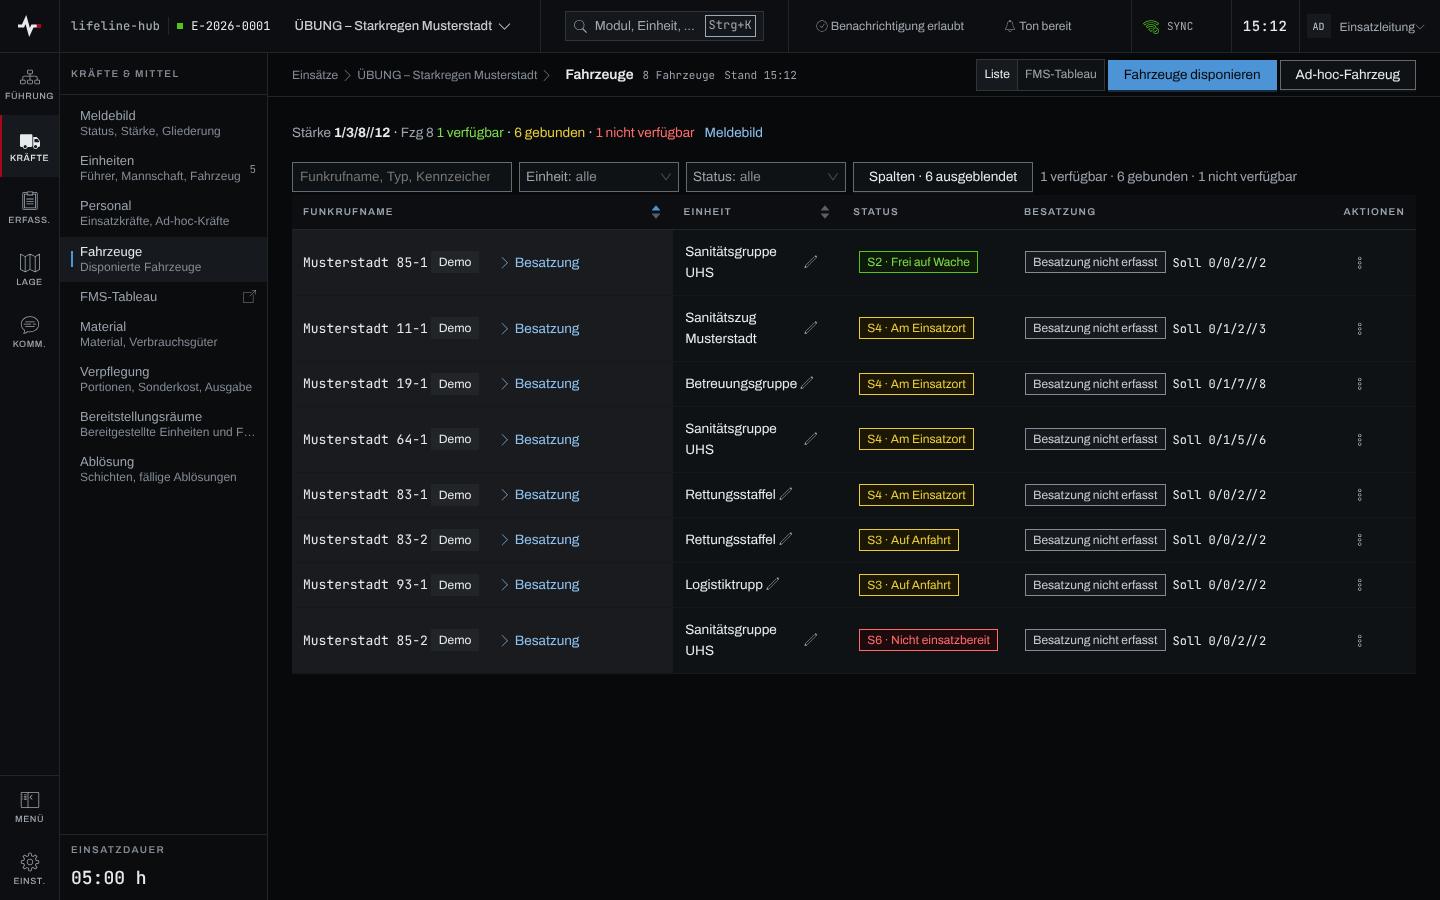
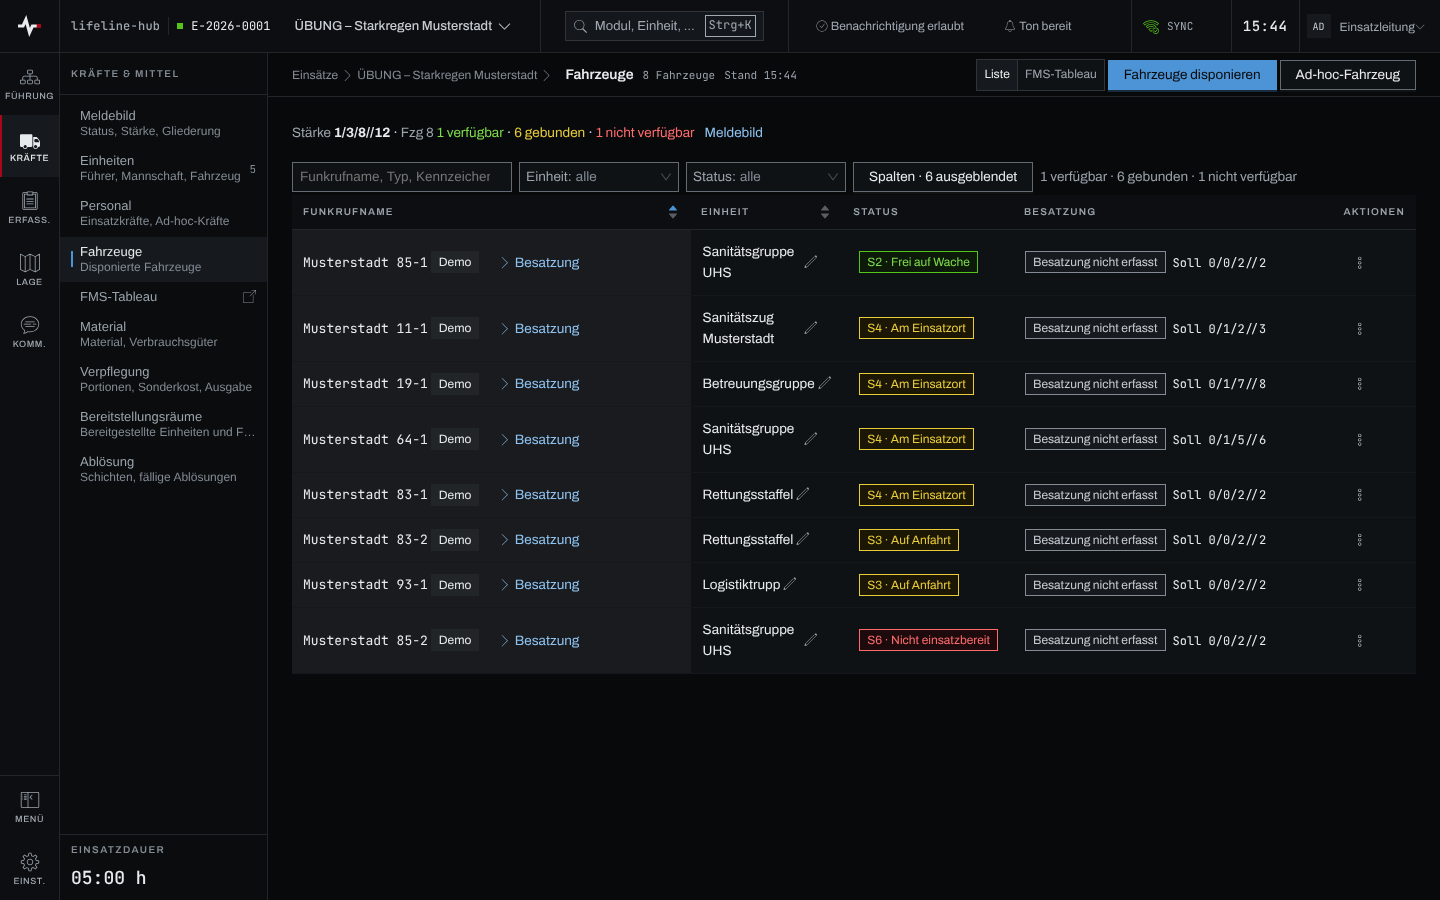
fix(fahrzeuge): Einheit-Spalte 150 px, ein langes Wort verbreitert sie
Mit 170 px blieben dem Funkrufnamen bei 1440 nur 392 px; der
27-Zeichen-Ad-hoc-Name aus Gate 1 „Kräfte-Listen“ brach um (Zeile 71
statt ≤ 48 px). Mit der Wortgrenzen-Regel verbreitert ein langes
Einzelwort die Spalte selbst (Betreuungsgruppe 152, Verpflegungsgruppe
162 px), daher genügt 150 als Vorgabe. Die Probe bleibt bei 150 px
scharf: mit anywhere reißt „Betreuungsgru|ppe“. Bild der Fahrzeugliste
neu.

Zunder: https://zunder.rubeen.dev/#/aufgabe/z8333ib8ruvam9c48ki4z8d8

Claude-Session: https://claude.ai/code/session_01DDFgqKuDE2TAXVLAHHoUGt

diff --git a/frontend/src/pages/FahrzeugePage.tsx b/frontend/src/pages/FahrzeugePage.tsx
@@ -657,13 +657,13 @@ export default function FahrzeugePage() {
    * der Funkrufname meist schon in seiner Kennzahl.
    *
    * Die Einheit-Spalte (LLH-1073, design.md D5, Entscheidungen 14.10.2026) bleibt bei 1440
-   * sichtbar und schreibtragend (170 px). Damit der Funkrufname im Regelfall einzeilig bleibt,
+   * sichtbar und schreibtragend (150 px, ein langes Einzelwort verbreitert sie). Damit der Funkrufname im Regelfall einzeilig bleibt,
    * trägt die Aktionsspalte nur noch den Menüauslöser („Entlassen“ ist sein erster Eintrag; Breite
    * je Dichte 82 / 102 / 124 px), und unter `xxl` weichen neben `typ` (seit LLH-1079 Teil II),
    * `kennzeichen` und `traeger` auch `abschnitt` (130 px, lesend; die Einheit nennt ihn mittelbar,
    * das Tableau gliedert nach ihm) und `seit` (90 px). Gemessen bei 1440 kompakt: Funkrufname
-   * 392 px, Zeile 45 px; ein Stamm-Name trägt 30 Zeichen in einer Zeile. Einzeilig ist der
-   * Regelfall, keine harte Grenze: ein Ad-hoc-Name ab rund 26 Zeichen (neben „ad-hoc“) und bei
+   * 412 px, Zeile 45 px; ein Stamm-Name trägt 30 Zeichen in einer Zeile, ein Ad-hoc-Name neben
+   * „ad-hoc“ 27. Einzeilig ist der Regelfall, keine harte Grenze: ein längerer Ad-hoc-Name und bei
    * 1366 schon kürzere Namen werden zweizeilig, ebenso eine Einheit mit langem Namen — beides
    * bricht an Wortgrenzen und ist kein Überlauf. Einheit, Status, Besatzung und Aktionen weichen
    * nie. Wer eine Breite ändert, misst neu
@@ -704,10 +704,12 @@ export default function FahrzeugePage() {
             // Schreibtragend, deshalb nie `abBreite` (D5); die Auswahl gruppiert nach Abschnitt.
             title: 'Einheit',
             key: 'einheit' as const,
-            // 170 px: „Betreuungsgruppe“ steht in `kompakt` neben dem Stift in einer Zeile. Längere
-            // Namen brechen an Wortgrenzen, nie mitten im Wort (`EinheitAngabe`, Entscheidung
-            // 14.10.2026), und dürfen zweizeilig werden.
-            width: 170,
+            // 150 px als Vorgabe. Ein Name bricht an Wortgrenzen, nie mitten im Wort
+            // (`EinheitAngabe`, Entscheidung 14.10.2026), und darf zweizeilig werden; ein langes
+            // Einzelwort verbreitert die Spalte selbst („Betreuungsgruppe“ neben dem Stift 152 px,
+            // „Verpflegungsgruppe“ 162 px). Über 157 px fehlen dem Funkrufnamen die 27 Zeichen
+            // aus Gate 1 („Kräfte-Listen“).
+            width: 150,
             sortWert: (ef: EinsatzFahrzeug) => einheitName(ef),
             suchText: (ef: EinsatzFahrzeug) => einheitName(ef),
             filter: filterAus(einheitName),

diff --git a/frontend/e2e/gate1-ueberlauf.spec.ts b/frontend/e2e/gate1-ueberlauf.spec.ts
@@ -1702,8 +1702,9 @@ test.describe('Gate 1 · Tabellen am Führungsarbeitsplatz (LFH-1149)', () => {
    * Kein Umbruch mitten im Wort (Entscheidung 14.10.2026, LLH-1073): ein Einheitsname bricht nur
    * an Wortgrenzen oder an einer Silbengrenze (deutsche Silbentrennung, `hyphens: auto`). Gemessen
    * über eine Range je Wort: ein Rechteck heißt ungetrennt; bei zwei liegt die Trennstelle auf
-   * einer der Silbengrenzen. „Verpflegungsgruppe“ ist gerade so lang, dass ein Umbruch überall
-   * (`overflow-wrap: anywhere`) sie in 170 px neben dem Stift zerreißt.
+   * einer der Silbengrenzen. Beide Namen passen nicht neben dem Stift in die 150 px der Spalte:
+   * ein Umbruch überall (`overflow-wrap: anywhere`) zerreißt sie („Betreuungsgru|ppe“), mit der
+   * Wortgrenzen-Regel verbreitert das Wort die Spalte.
    */
   for (const breite of [1440, 1366] as const) {
     test(`Fükw (${breite} px): Einheitsnamen brechen nicht mitten im Wort`, async ({ page }) => {
